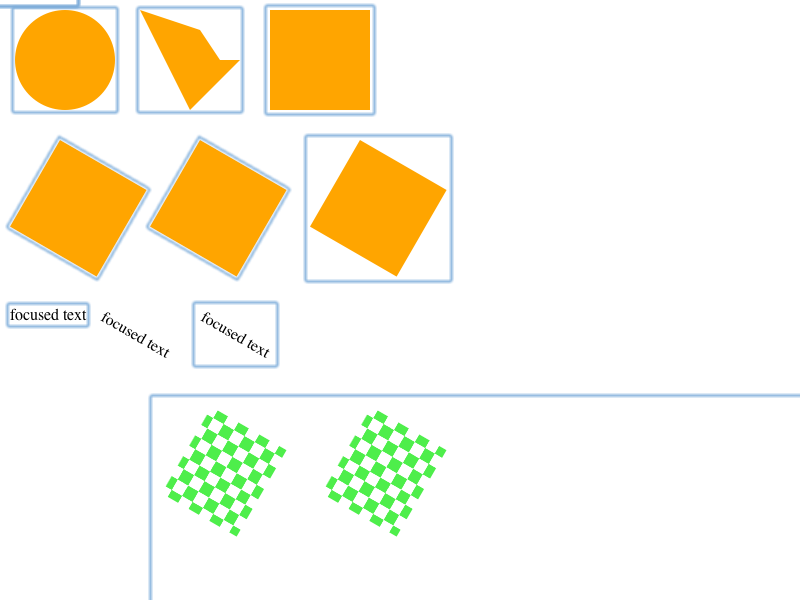
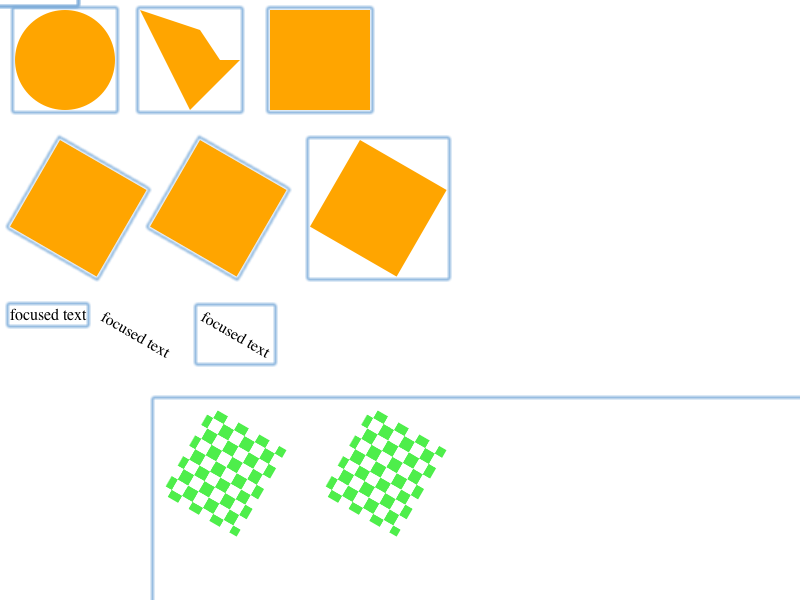
Reviewed by Antti Koivisto.
Move RenderPath and RenderSVGContainer onto a unified clippedOverflowRectForRepaint
        https://bugs.webkit.org/show_bug.cgi?id=25268

        Lots of minus lines.  Now we're sharing more sane code
        (which will respect -webkit-transforms! and scroll offsets correctly)

        Which means this fixes:
        https://bugs.webkit.org/show_bug.cgi?id=20769 too!

        We're no longer expanding the paint rect "for anti-aliasing", since
        I can't find a case where that's required.  If it is, repaintRectInLocalCoordinates()
        should be fixed to handle those cases instead of here.

        This fixes svg/custom/scroll-hit-test (now that we respect scroll offsets when repainting)
        as well as improves our focus ring drawing seen in svg/custom/focus-ring
        focus rings are now closer to transformed content by a couple pixels (they were needlessly outset by the antialiasing hack)
        Also, it fixes the dumped rects for markers, causing a progression in svg/custom/marker-overflow-clip

        * rendering/RenderPath.cpp:
        (WebCore::RenderPath::repaintRectInLocalCoordinates):
        (WebCore::RenderPath::setPath):
        * rendering/RenderPath.h:
        * rendering/RenderSVGContainer.cpp:
        (WebCore::RenderSVGContainer::repaintRectInLocalCoordinates):
        * rendering/RenderSVGContainer.h:
        * rendering/RenderSVGModelObject.cpp:
        (WebCore::RenderSVGModelObject::clippedOverflowRectForRepaint):
[…]

Changed region(s): [[0.1875, 0.51, 1.0, 1.0], [0.3125, 0.0, 0.5938, 0.48], [0.25, 0.48, 0.375, 0.6]]

diff --git a/WebCore/rendering/RenderPath.cpp b/WebCore/rendering/RenderPath.cpp
@@ -2,8 +2,7 @@
     Copyright (C) 2004, 2005, 2007 Nikolas Zimmermann <zimmermann@kde.org>
                   2004, 2005, 2008 Rob Buis <buis@kde.org>
                   2005, 2007 Eric Seidel <eric@webkit.org>
-
-    This file is part of the KDE project
+                  2009 Google, Inc.
 
     This library is free software; you can redistribute it and/or
     modify it under the terms of the GNU Library General Public
@@ -112,10 +111,10 @@ FloatRect RenderPath::objectBoundingBox() const
     if (m_path.isEmpty())
         return FloatRect();
 
-    if (m_fillBBox.isEmpty())
-        m_fillBBox = m_path.boundingRect();
+    if (m_cachedLocalFillBBox.isEmpty())
+        m_cachedLocalFillBBox = m_path.boundingRect();
 
-    return m_fillBBox;
+    return m_cachedLocalFillBBox;
 }
 
 FloatRect RenderPath::repaintRectInLocalCoordinates() const
@@ -123,23 +122,29 @@ FloatRect RenderPath::repaintRectInLocalCoordinates() const
     if (m_path.isEmpty())
         return FloatRect();
 
-    if (m_strokeBbox.isEmpty()) {
-        if (!style()->svgStyle()->hasStroke())
-            return objectBoundingBox();
+    // If we already have a cached repaint rect, return that
+    if (!m_cachedLocalRepaintRect.isEmpty())
+        return m_cachedLocalRepaintRect;
 
+    if (!style()->svgStyle()->hasStroke())
+        m_cachedLocalRepaintRect = objectBoundingBox();
+    else {
         BoundingRectStrokeStyleApplier strokeStyle(this, style());
-        m_strokeBbox = m_path.strokeBoundingRect(&strokeStyle);
+        m_cachedLocalRepaintRect = m_path.strokeBoundingRect(&strokeStyle);
     }
-    // FIXME: This should include filter and marker content too.
 
-    return m_strokeBbox;
+    // Markers and filters can paint outside of the stroke path
+    m_cachedLocalRepaintRect.unite(m_markerBounds);
+    m_cachedLocalRepaintRect.unite(filterBoundingBox());
+
+    return m_cachedLocalRepaintRect;
 }
 
 void RenderPath::setPath(const Path& newPath)
 {
     m_path = newPath;
-    m_strokeBbox = FloatRect();
-    m_fillBBox = FloatRect();
+    m_cachedLocalRepaintRect = FloatRect();
+    m_cachedLocalFillBBox = FloatRect();
 }
 
 const Path& RenderPath::path() const
@@ -168,23 +173,6 @@ void RenderPath::layout()
     repainter.repaintAfterLayout();
 
     setNeedsLayout(false);
-}
-
-IntRect RenderPath::clippedOverflowRectForRepaint(RenderBoxModelObject* /*repaintContainer*/)
-{
-    // FIXME: handle non-root repaintContainer
-    FloatRect repaintRect = absoluteTransform().mapRect(repaintRectInLocalCoordinates());
-
-    // Markers can expand the bounding box
-    repaintRect.unite(m_markerBounds);
-
-    // Filters can paint anywhere.  If we have one, expand our rect so we are sure to repaint it.
-    repaintRect.unite(filterBoundingBox());
-
-    if (!repaintRect.isEmpty())
-        repaintRect.inflate(1); // inflate 1 pixel for antialiasing
-
-    return enclosingIntRect(repaintRect);
 }
 
 int RenderPath::lineHeight(bool, bool) const

diff --git a/WebCore/rendering/RenderSVGContainer.cpp b/WebCore/rendering/RenderSVGContainer.cpp
@@ -152,22 +152,6 @@ void RenderSVGContainer::paint(PaintInfo& paintInfo, int, int)
         paintOutline(paintInfo.context, m_absoluteBounds.x(), m_absoluteBounds.y(), m_absoluteBounds.width(), m_absoluteBounds.height(), style());
 }
 
-IntRect RenderSVGContainer::clippedOverflowRectForRepaint(RenderBoxModelObject* repaintContainer)
-{
-    FloatRect repaintRect;
-
-    for (RenderObject* current = firstChild(); current != 0; current = current->nextSibling())
-        repaintRect.unite(current->clippedOverflowRectForRepaint(repaintContainer));
-
-    // Filters can paint anywhere.  If we have one, expand our rect so we are sure to repaint it.
-    repaintRect.unite(filterBoundingBox());
-
-    if (!repaintRect.isEmpty())
-        repaintRect.inflate(1); // inflate 1 pixel for antialiasing
-
-    return enclosingIntRect(repaintRect);
-}
-
 void RenderSVGContainer::addFocusRingRects(GraphicsContext* graphicsContext, int, int)
 {
     graphicsContext->addFocusRingRect(m_absoluteBounds);
@@ -192,7 +176,12 @@ FloatRect RenderSVGContainer::objectBoundingBox() const
 // width or height, so we union all of our child rects as our repaint rect.
 FloatRect RenderSVGContainer::repaintRectInLocalCoordinates() const
 {
-    return computeContainerBoundingBox(this, true);
+    FloatRect repaintRect = computeContainerBoundingBox(this, true);
+
+    // A filter on this container can paint outside of the union of the child repaint rects
+    repaintRect.unite(filterBoundingBox());
+
+    return repaintRect;
 }
 
 bool RenderSVGContainer::nodeAtPoint(const HitTestRequest& request, HitTestResult& result, int _x, int _y, int _tx, int _ty, HitTestAction hitTestAction)

diff --git a/WebCore/rendering/RenderSVGRoot.cpp b/WebCore/rendering/RenderSVGRoot.cpp
@@ -2,8 +2,7 @@
     Copyright (C) 2004, 2005, 2007 Nikolas Zimmermann <zimmermann@kde.org>
                   2004, 2005, 2007, 2008, 2009 Rob Buis <buis@kde.org>
                   2007 Eric Seidel <eric@webkit.org>
-
-    This file is part of the KDE project
+                  2009 Google, Inc.
 
     This library is free software; you can redistribute it and/or
     modify it under the terms of the GNU Library General Public
@@ -251,6 +250,20 @@ FloatRect RenderSVGRoot::repaintRectInLocalCoordinates() const
 TransformationMatrix RenderSVGRoot::localTransform() const
 {
     return TransformationMatrix();
+}
+
+void RenderSVGRoot::computeRectForRepaint(RenderBoxModelObject* repaintContainer, IntRect& repaintRect, bool fixed)
+{
+    // Apply our viewbox transform, and then call RenderBox's method to handle all the normal CSS Box model bits
+    TransformationMatrix localToParent = localToParentTransform();
+
+    // Undo the x(),y() translation included in localToParentTransform() because
+    // RenderBox::computeRectForRepaint() expects it to be included in repaintRect
+    localToParent.translateRight(-x(), -y());
+
+    // Apply our localToParent transform and pass the rect off to our RenderBox
+    repaintRect = localToParent.mapRect(repaintRect);
+    RenderBox::computeRectForRepaint(repaintContainer, repaintRect, fixed);
 }
 
 bool RenderSVGRoot::nodeAtPoint(const HitTestRequest& request, HitTestResult& result, int _x, int _y, int _tx, int _ty, HitTestAction hitTestAction)

diff --git a/WebCore/rendering/RenderSVGModelObject.cpp b/WebCore/rendering/RenderSVGModelObject.cpp
@@ -33,16 +33,38 @@
 #if ENABLE(SVG)
 #include "RenderSVGModelObject.h"
 
+#include "RenderLayer.h"
+#include "SVGStyledElement.h"
+
 #if ENABLE(SVG_FILTERS)
 #include "SVGResourceFilter.h"
 #endif
-#include "SVGStyledElement.h"
 
 namespace WebCore {
 
 RenderSVGModelObject::RenderSVGModelObject(SVGStyledElement* node)
     : RenderObject(node)
 {
+}
+
+IntRect RenderSVGModelObject::clippedOverflowRectForRepaint(RenderBoxModelObject* repaintContainer)
+{
+    // Return early for any cases where we don't actually paint
+    if (style()->visibility() != VISIBLE && !enclosingLayer()->hasVisibleContent())
+        return IntRect();
+
+    // Pass our local paint rect to computeRectForRepaint() which will
+    // map to parent coords and recurse up the parent chain.
+    IntRect repaintRect = enclosingIntRect(repaintRectInLocalCoordinates());
+    computeRectForRepaint(repaintContainer, repaintRect);
+    return repaintRect;
+}
+
+void RenderSVGModelObject::computeRectForRepaint(RenderBoxModelObject* repaintContainer, IntRect& repaintRect, bool fixed)
+{
+    // Translate to coords in our parent renderer, and then call computeRectForRepaint on our parent
+    repaintRect = localToParentTransform().mapRect(repaintRect);
+    parent()->computeRectForRepaint(repaintContainer, repaintRect, fixed);
 }
 
 FloatRect RenderSVGModelObject::filterBoundingBox() const

diff --git a/WebCore/rendering/RenderPath.h b/WebCore/rendering/RenderPath.h
@@ -3,8 +3,7 @@
                   2004, 2005 Rob Buis <buis@kde.org>
                   2005 Eric Seidel <eric@webkit.org>
                   2006 Apple Computer, Inc
-
-    This file is part of the KDE project
+                  2009 Google, Inc.
 
     This library is free software; you can redistribute it and/or
     modify it under the terms of the GNU Library General Public
@@ -58,7 +57,6 @@ public:
     virtual TransformationMatrix localTransform() const;
     
     virtual void layout();
-    virtual IntRect clippedOverflowRectForRepaint(RenderBoxModelObject* repaintContainer);
     virtual bool requiresLayer() const { return false; }
     virtual int lineHeight(bool b, bool isRootLineBox = false) const;
     virtual int baselinePosition(bool b, bool isRootLineBox = false) const;
@@ -77,8 +75,8 @@ private:
     virtual IntRect outlineBoundsForRepaint(RenderBoxModelObject* repaintContainer) const;
 
     mutable Path m_path;
-    mutable FloatRect m_fillBBox;
-    mutable FloatRect m_strokeBbox;
+    mutable FloatRect m_cachedLocalFillBBox;
+    mutable FloatRect m_cachedLocalRepaintRect;
     FloatRect m_markerBounds;
     TransformationMatrix m_localTransform;
     IntRect m_absoluteBounds;

diff --git a/WebCore/rendering/RenderSVGRoot.h b/WebCore/rendering/RenderSVGRoot.h
@@ -47,7 +47,7 @@ public:
     virtual int lineHeight(bool b, bool isRootLineBox = false) const;
     virtual int baselinePosition(bool b, bool isRootLineBox = false) const;
     virtual void calcPrefWidths();
-    
+
     virtual void layout();
     virtual void paint(PaintInfo&, int parentX, int parentY);
 
@@ -66,7 +66,9 @@ public:
     FloatRect viewport() const;
 
     virtual bool nodeAtPoint(const HitTestRequest&, HitTestResult&, int x, int y, int tx, int ty, HitTestAction);
-    
+
+    virtual void computeRectForRepaint(RenderBoxModelObject* repaintContainer, IntRect& repaintRect, bool fixed);
+
 private:
     void calcViewport(); 
     void applyContentTransforms(PaintInfo&, int parentX, int parentY);

diff --git a/WebCore/rendering/RenderSVGContainer.h b/WebCore/rendering/RenderSVGContainer.h
@@ -52,7 +52,6 @@ public:
     virtual void layout();
     virtual void paint(PaintInfo&, int parentX, int parentY);
 
-    virtual IntRect clippedOverflowRectForRepaint(RenderBoxModelObject* repaintContainer);
     virtual void absoluteRects(Vector<IntRect>& rects, int tx, int ty, bool topLevel = true);
     virtual void absoluteQuads(Vector<FloatQuad>&, bool topLevel = true);
     virtual void addFocusRingRects(GraphicsContext*, int tx, int ty);

diff --git a/WebCore/rendering/RenderSVGModelObject.h b/WebCore/rendering/RenderSVGModelObject.h
@@ -50,6 +50,9 @@ public:
 
     virtual bool requiresLayer() const { return false; }
 
+    virtual IntRect clippedOverflowRectForRepaint(RenderBoxModelObject* repaintContainer);
+    virtual void computeRectForRepaint(RenderBoxModelObject* repaintContainer, IntRect&, bool fixed = false);
+
 protected:
     // Returns the bounding box for the filter associated with this object (if any)
     FloatRect filterBoundingBox() const;
